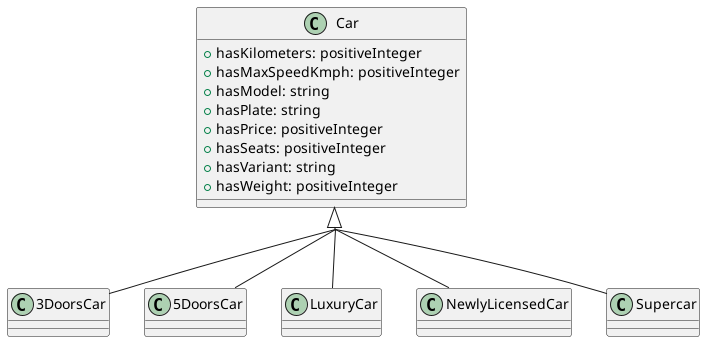
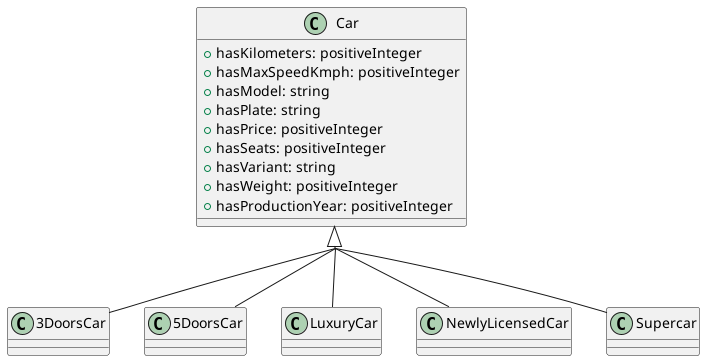
docs: add new data property

diff --git a/docs/chapters/chapter-03.tex b/docs/chapters/chapter-03.tex
@@ -17,6 +17,7 @@ Alla radice della gerarchia si trova la classe \texttt{Car}. Questa classe racch
     \item \texttt{hasSeats}: Un numero intero positivo che rappresenta il numero di posti nell'auto.
     \item \texttt{hasVariant}: Una stringa che descrive la variante o il livello di allestimento dell'auto.
     \item \texttt{hasWeight}: Un numero intero positivo che indica il peso dell'auto.
+    \item \texttt{hasProductionYear}: Un numero intero positivo che indica l'anno di produzione dell'auto.
 \end{itemize}
 
 La gerarchia si estende ulteriormente per includere diverse sottoclassi, ognuna delle quali rappresenta un tipo o una categoria specifica di auto. Queste sottoclassi ereditano le proprietà della classe base \texttt{Car} e possono aggiungere eventualmente attributi unici. Le sottoclassi nella nostra ontologia includono:
